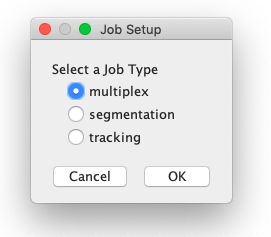
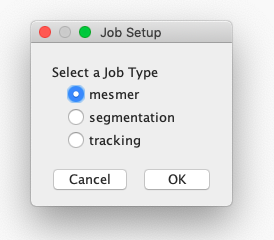
Update README with Mesmer updates and screenshots. (#35)
* Update README.md with screenshots and text.

diff --git a/README.md b/README.md
@@ -6,6 +6,8 @@
 
 The `kiosk-imageJ-plugin` is a ImageJ 1.x plugin for easily processing images with an existing DeepCell Kiosk from within ImageJ.
 
+Please see our [introductory repo](https://github.com/vanvalenlab/intro-to-deepcell) for an overview of the DeepCell ecosystem.
+
 ## How to install
 
 1. Download the [latest JAR file](https://github.com/vanvalenlab/kiosk-imageJ-plugin/releases/download/0.3.2/Kiosk_ImageJ-0.3.2.jar).
@@ -28,7 +30,7 @@ The `kiosk-imageJ-plugin` is a ImageJ 1.x plugin for easily processing images wi
 
 ![image](resources/step_3_screenshot.png) 
 
-4. Select which model you wish to run ("multiplex" is the default). Please see our [documentation](https://github.com/vanvalenlab/intro-to-deepcell/tree/master/deepcell_dot_org#formatting-data-for-web-based-models) for data requirements for the different model types. 
+4. Select which model you wish to run ("mesmer" is the default). Please see our [documentation](https://github.com/vanvalenlab/intro-to-deepcell/tree/master/pretrained_models#formatting-data-for-pre-trained-models) for data requirements for the different model types. 
 
 ![image](resources/step_4_screenshot.png) 
 
